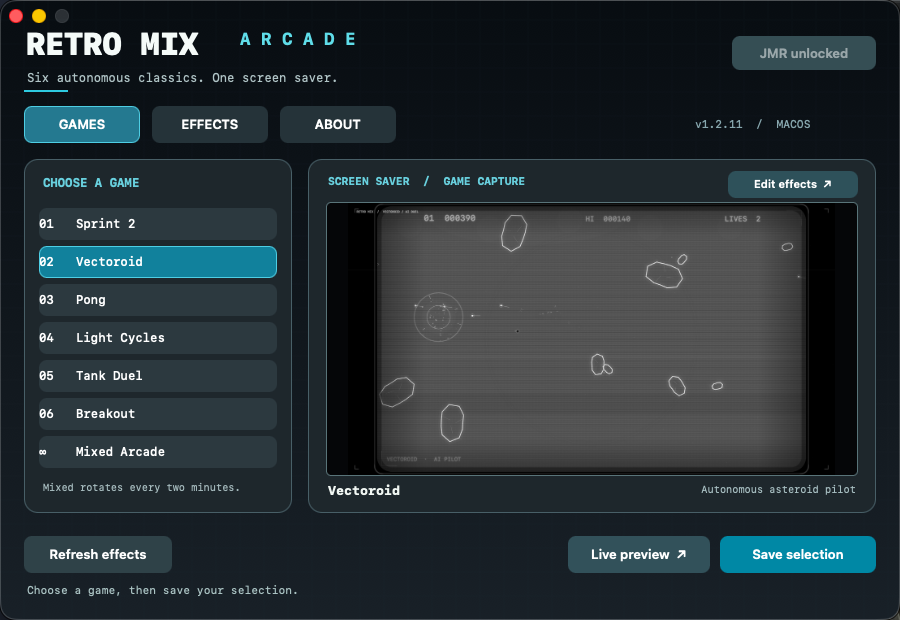
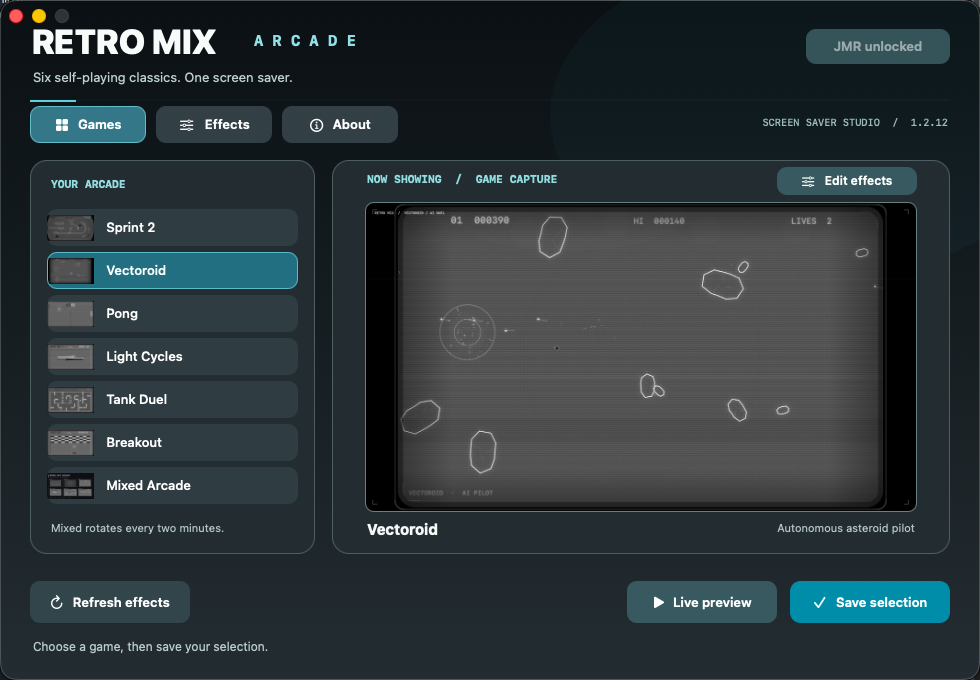
Show polished app in 1.2.12 release notes

diff --git a/RELEASE_NOTES.md b/RELEASE_NOTES.md
@@ -1,14 +1,14 @@
-# Retro Mix Arcade 1.2.11
+# Retro Mix Arcade 1.2.12
 
-The settings app has a new arcade-style interface with a game list, gameplay
-captures, and separate Games, Effects, and About tabs. Each selected game has
-a direct Edit effects button, while the Effects tab opens all six sets of
-60 visual options. The live preview and Save selection actions remain one
-click away.
+The settings app has a more refined arcade interface: larger 16:9 game
+captures, real gameplay thumbnails in the selector, improved typography,
+subtle hover feedback, and more spacious controls. The Effects tab is easier
+to scan, and the About tab shows a clear JMR license status.
 
-The game artwork uses captures from the actual screen saver. The window was
-checked in macOS, and the automated app test reopened all six effect panels,
-changed preview games, and exercised Mixed mode.
+Games, Effects, and About keep their existing actions. The selected game's
+effects, live preview, and Save selection are still directly available. The
+app was checked visually in macOS, and the automated app test reopened all
+six effect panels, changed preview games, and exercised Mixed mode.
 
 The six AI games, Mixed mode, and existing JMR unlock codes remain available.
 
